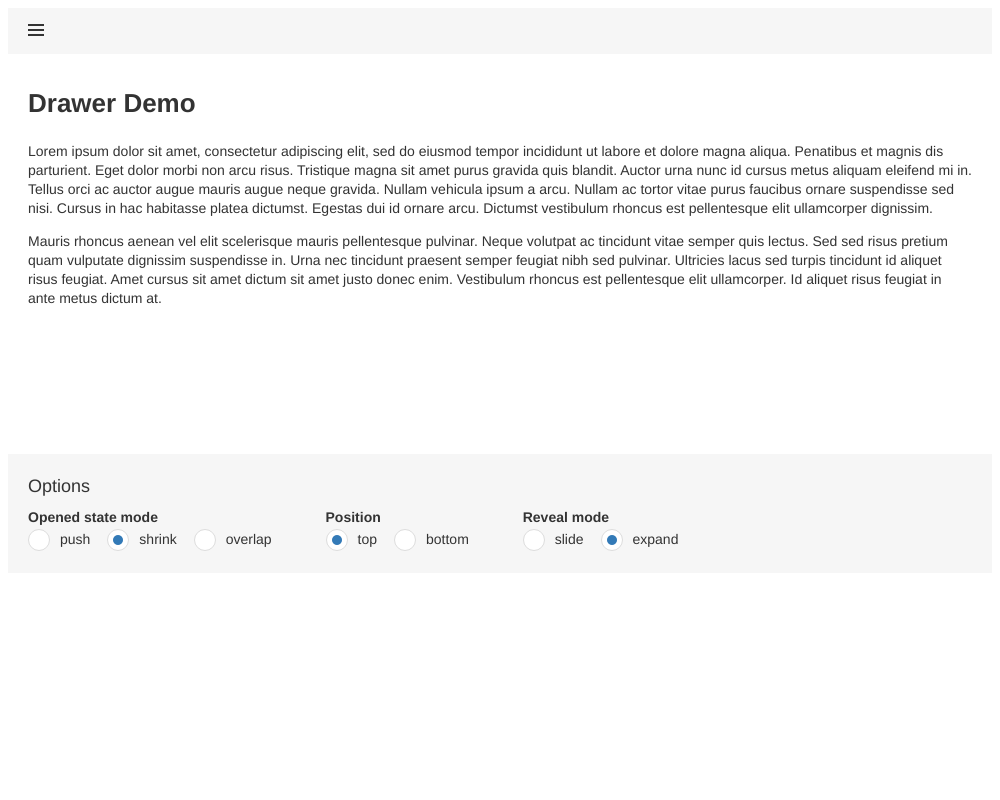
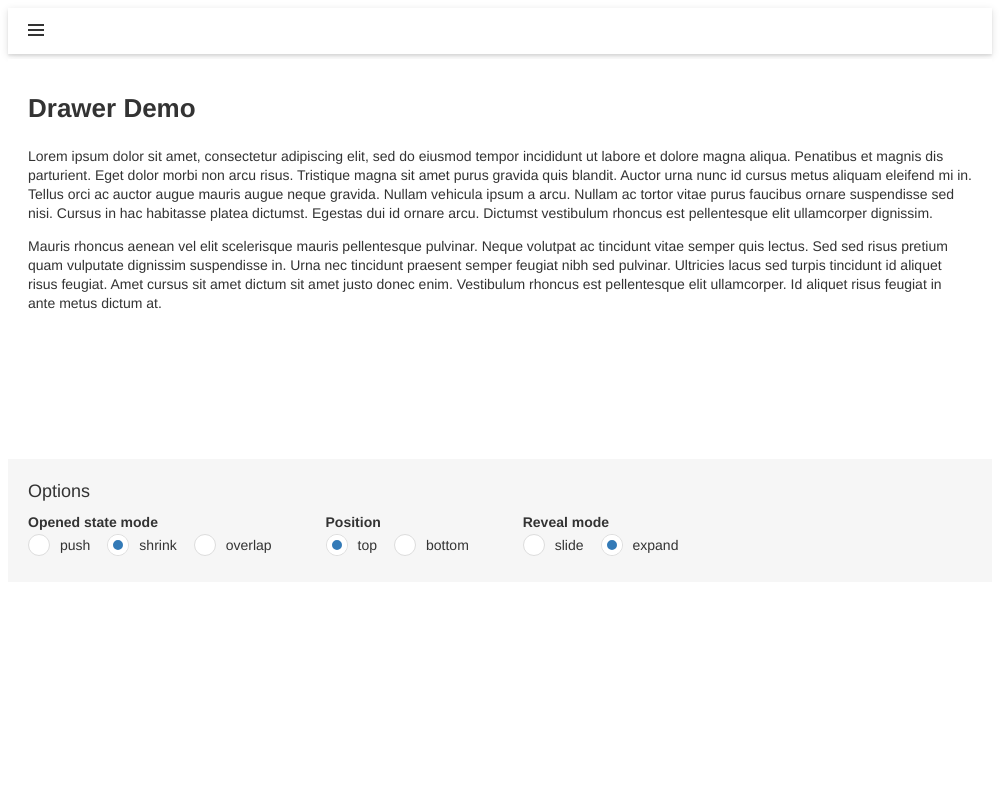
Drawer - change list background color and add shadow on toolbar (#2992)

diff --git a/JSDemos/Demos/Drawer/LeftOrRightPosition/Vue/App.vue b/JSDemos/Demos/Drawer/LeftOrRightPosition/Vue/App.vue
@@ -92,8 +92,9 @@ export default {
 </script>
 <style scoped>
     .dx-toolbar {
-      background-color: rgba(191, 191, 191, 0.15);
+      box-shadow: 0 2px 8px 0 rgba(0, 0, 0, 0.12), 0 2px 2px 0 rgba(0, 0, 0, 0.08);
       padding: 5px 10px;
+      margin-bottom: 5px;
     }
 
     .dx-list-item-icon-container,
@@ -121,12 +122,7 @@ export default {
     }
 
     .panel-list .dx-list-item {
-      color: #fff;
       border-top: 1px solid rgba(221, 221, 221, 0.2);
-    }
-
-    .panel-list .dx-list-item .dx-icon {
-      color: #fff !important;
     }
 
     .options {
@@ -155,8 +151,7 @@ export default {
     }
 
     #content {
-      height: 100%;
-      padding: 10px 20px;
+      padding: 0 24px;
     }
 
     #content h2 {

diff --git a/JSDemos/Demos/Drawer/LeftOrRightPosition/Angular/app/app.component.css b/JSDemos/Demos/Drawer/LeftOrRightPosition/Angular/app/app.component.css
@@ -1,6 +1,7 @@
 ::ng-deep .dx-toolbar {
-  background-color: rgba(191, 191, 191, 0.15);
+  box-shadow: 0 2px 8px 0 rgba(0, 0, 0, 0.12), 0 2px 2px 0 rgba(0, 0, 0, 0.08);
   padding: 5px 10px;
+  margin-bottom: 5px;
 }
 
 ::ng-deep .dx-list-item-icon-container,
@@ -28,12 +29,7 @@
 }
 
 ::ng-deep .panel-list .dx-list-item {
-  color: #fff;
   border-top: 1px solid rgba(221, 221, 221, 0.2);
-}
-
-::ng-deep .panel-list .dx-list-item .dx-icon {
-  color: #fff !important;
 }
 
 ::ng-deep .options {
@@ -62,8 +58,7 @@
 }
 
 ::ng-deep #content {
-  height: 100%;
-  padding: 10px 20px;
+  padding: 0 24px;
 }
 
 ::ng-deep #content h2 {

diff --git a/MVCDemos/Content/DemosStyles/Drawer/LeftOrRightPosition.css b/MVCDemos/Content/DemosStyles/Drawer/LeftOrRightPosition.css
@@ -1,6 +1,7 @@
 .dx-toolbar {
-    background-color: rgba(191, 191, 191, .15);
+    box-shadow: 0 2px 8px 0 rgba(0, 0, 0, 0.12), 0 2px 2px 0 rgba(0, 0, 0, 0.08);
     padding: 5px 10px;
+    margin-bottom: 5px;
 }
  
 .dx-list-item-icon-container, .dx-toolbar-before {
@@ -27,12 +28,7 @@
 }
 
 .panel-list .dx-list-item {
-    color: #fff;
     border-top: 1px solid rgba(221, 221, 221, .2);
-}
-
-.panel-list .dx-list-item .dx-icon {
-    color: #fff !important;
 }
 
 .options {
@@ -61,8 +57,7 @@ label {
 }
 
 #content {
-    height: 100%;
-    padding: 10px 20px;
+    padding: 0 24px;
 }
 
 #content h2 {

diff --git a/NetCoreDemos/wwwroot/css/DemosStyles/Drawer/LeftOrRightPosition.css b/NetCoreDemos/wwwroot/css/DemosStyles/Drawer/LeftOrRightPosition.css
@@ -1,6 +1,7 @@
 .dx-toolbar {
-    background-color: rgba(191, 191, 191, .15);
+    box-shadow: 0 2px 8px 0 rgba(0, 0, 0, 0.12), 0 2px 2px 0 rgba(0, 0, 0, 0.08);
     padding: 5px 10px;
+    margin-bottom: 5px;
 }
  
 .dx-list-item-icon-container, .dx-toolbar-before {
@@ -27,12 +28,7 @@
 }
 
 .panel-list .dx-list-item {
-    color: #fff;
     border-top: 1px solid rgba(221, 221, 221, .2);
-}
-
-.panel-list .dx-list-item .dx-icon {
-    color: #fff !important;
 }
 
 .options {
@@ -61,8 +57,7 @@ label {
 }
 
 #content {
-    height: 100%;
-    padding: 10px 20px;
+    padding: 0 24px;
 }
 
 #content h2 {

diff --git a/JSDemos/Demos/Drawer/LeftOrRightPosition/React/styles.css b/JSDemos/Demos/Drawer/LeftOrRightPosition/React/styles.css
@@ -1,6 +1,7 @@
 .dx-toolbar {
-  background-color: rgba(191, 191, 191, 0.15);
+  box-shadow: 0 2px 8px 0 rgba(0, 0, 0, 0.12), 0 2px 2px 0 rgba(0, 0, 0, 0.08);
   padding: 5px 10px;
+  margin-bottom: 5px;
 }
 
 .dx-list-item-icon-container,
@@ -28,12 +29,7 @@
 }
 
 .panel-list .dx-list-item {
-  color: #fff;
   border-top: 1px solid rgba(221, 221, 221, 0.2);
-}
-
-.panel-list .dx-list-item .dx-icon {
-  color: #fff !important;
 }
 
 .options {
@@ -62,8 +58,7 @@ label {
 }
 
 #content {
-  height: 100%;
-  padding: 10px 20px;
+  padding: 0 24px;
 }
 
 #content h2 {

diff --git a/JSDemos/Demos/Drawer/LeftOrRightPosition/jQuery/styles.css b/JSDemos/Demos/Drawer/LeftOrRightPosition/jQuery/styles.css
@@ -1,6 +1,7 @@
 #toolbar {
-  background-color: rgba(191, 191, 191, 0.15);
+  box-shadow: 0 2px 8px 0 rgba(0, 0, 0, 0.12), 0 2px 2px 0 rgba(0, 0, 0, 0.08);
   padding: 5px 10px;
+  margin-bottom: 5px;
 }
 
 .dx-list-item-icon-container,
@@ -28,12 +29,7 @@
 }
 
 .panel-list .dx-list-item {
-  color: #fff;
   border-top: 1px solid rgba(221, 221, 221, 0.2);
-}
-
-.panel-list .dx-list-item .dx-icon {
-  color: #fff !important;
 }
 
 .options {
@@ -62,8 +58,7 @@ label {
 }
 
 #content {
-  height: 100%;
-  padding: 10px 20px;
+  padding: 0 24px;
 }
 
 #content h2 {

diff --git a/JSDemos/Demos/Drawer/TopOrBottomPosition/Vue/App.vue b/JSDemos/Demos/Drawer/TopOrBottomPosition/Vue/App.vue
@@ -90,8 +90,9 @@ export default {
 </script>
 <style scoped>
     .dx-toolbar {
-      background-color: rgba(191, 191, 191, 0.15);
+      box-shadow: 0 2px 8px 0 rgba(0, 0, 0, 0.12), 0 2px 2px 0 rgba(0, 0, 0, 0.08);
       padding: 5px 10px;
+      margin-bottom: 5px;
     }
 
     .dx-list-item-icon-container,
@@ -126,7 +127,6 @@ export default {
     }
 
     .panel-list .dx-list-item {
-      color: #fff;
       text-align: center;
       border-top: 1px solid rgba(221, 221, 221, 0.2);
     }

diff --git a/MVCDemos/Content/DemosStyles/Drawer/TopOrBottomPosition.css b/MVCDemos/Content/DemosStyles/Drawer/TopOrBottomPosition.css
@@ -1,6 +1,7 @@
 .dx-toolbar {
-    background-color: rgba(191, 191, 191, .15);
+    box-shadow: 0 2px 8px 0 rgba(0, 0, 0, 0.12), 0 2px 2px 0 rgba(0, 0, 0, 0.08);
     padding: 5px 10px;
+    margin-bottom: 5px;
 }
  
 .dx-list-item-icon-container, .dx-toolbar-before {
@@ -34,7 +35,6 @@
 }
 
 .panel-list .dx-list-item {
-    color: #fff;
     text-align: center;
     border-top: 1px solid rgba(221, 221, 221, .2);
 }

diff --git a/NetCoreDemos/wwwroot/css/DemosStyles/Drawer/TopOrBottomPosition.css b/NetCoreDemos/wwwroot/css/DemosStyles/Drawer/TopOrBottomPosition.css
@@ -1,6 +1,7 @@
 .dx-toolbar {
-    background-color: rgba(191, 191, 191, .15);
+    box-shadow: 0 2px 8px 0 rgba(0, 0, 0, 0.12), 0 2px 2px 0 rgba(0, 0, 0, 0.08);
     padding: 5px 10px;
+    margin-bottom: 5px;
 }
  
 .dx-list-item-icon-container, .dx-toolbar-before {
@@ -34,7 +35,6 @@
 }
 
 .panel-list .dx-list-item {
-    color: #fff;
     text-align: center;
     border-top: 1px solid rgba(221, 221, 221, .2);
 }

diff --git a/JSDemos/Demos/Drawer/TopOrBottomPosition/Angular/app/app.component.css b/JSDemos/Demos/Drawer/TopOrBottomPosition/Angular/app/app.component.css
@@ -1,6 +1,7 @@
 ::ng-deep .dx-toolbar {
-  background-color: rgba(191, 191, 191, 0.15);
+  box-shadow: 0 2px 8px 0 rgba(0, 0, 0, 0.12), 0 2px 2px 0 rgba(0, 0, 0, 0.08);
   padding: 5px 10px;
+  margin-bottom: 5px;
 }
 
 ::ng-deep .dx-list-item-icon-container,
@@ -35,7 +36,6 @@
 }
 
 ::ng-deep .panel-list .dx-list-item {
-  color: #fff;
   text-align: center;
   border-top: 1px solid rgba(221, 221, 221, 0.2);
 }

diff --git a/JSDemos/Demos/Drawer/TopOrBottomPosition/React/styles.css b/JSDemos/Demos/Drawer/TopOrBottomPosition/React/styles.css
@@ -1,6 +1,7 @@
 .dx-toolbar {
-  background-color: rgba(191, 191, 191, 0.15);
+  box-shadow: 0 2px 8px 0 rgba(0, 0, 0, 0.12), 0 2px 2px 0 rgba(0, 0, 0, 0.08);
   padding: 5px 10px;
+  margin-bottom: 5px;
 }
 
 .dx-list-item-icon-container,
@@ -36,7 +37,6 @@
 }
 
 .panel-list .dx-list-item {
-  color: #fff;
   text-align: center;
   border-top: 1px solid rgba(221, 221, 221, 0.2);
 }

diff --git a/JSDemos/Demos/Drawer/TopOrBottomPosition/jQuery/styles.css b/JSDemos/Demos/Drawer/TopOrBottomPosition/jQuery/styles.css
@@ -1,6 +1,7 @@
 #toolbar {
-  background-color: rgba(191, 191, 191, 0.15);
+  box-shadow: 0 2px 8px 0 rgba(0, 0, 0, 0.12), 0 2px 2px 0 rgba(0, 0, 0, 0.08);
   padding: 5px 10px;
+  margin-bottom: 5px;
 }
 
 .dx-list-item-icon-container,
@@ -35,7 +36,6 @@
 }
 
 .panel-list .dx-list-item {
-  color: #fff;
   text-align: center;
   border-top: 1px solid rgba(221, 221, 221, 0.2);
 }
